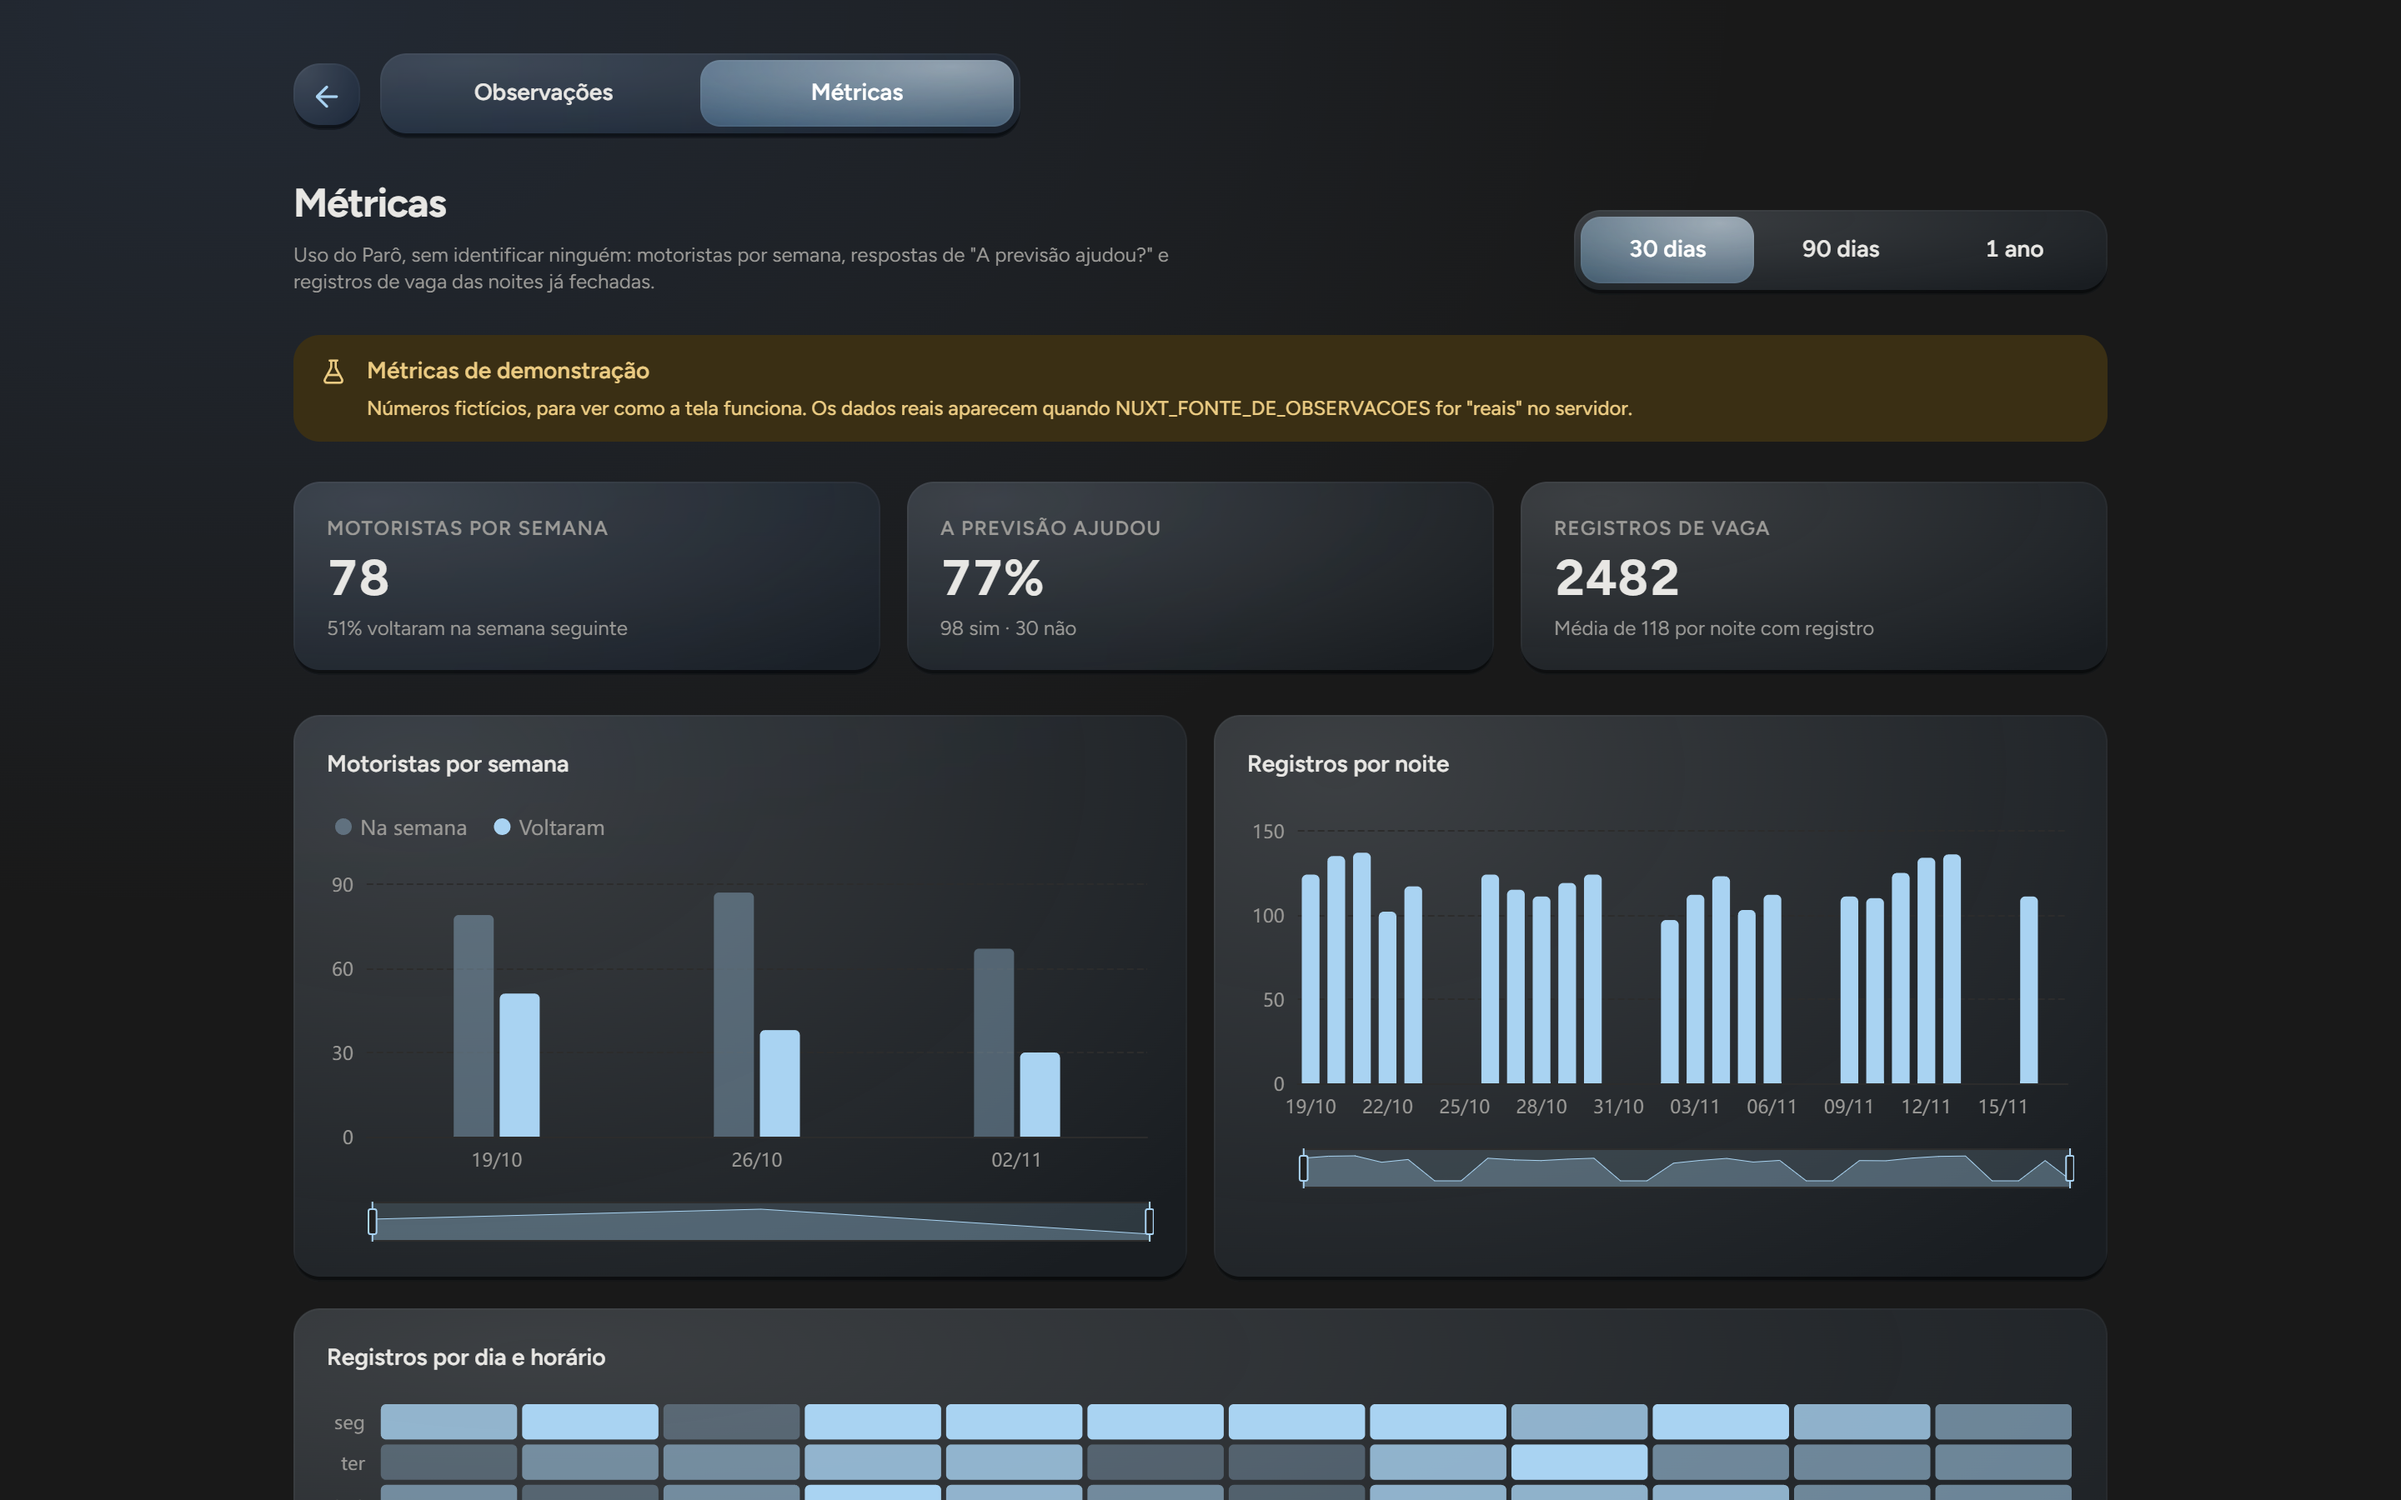
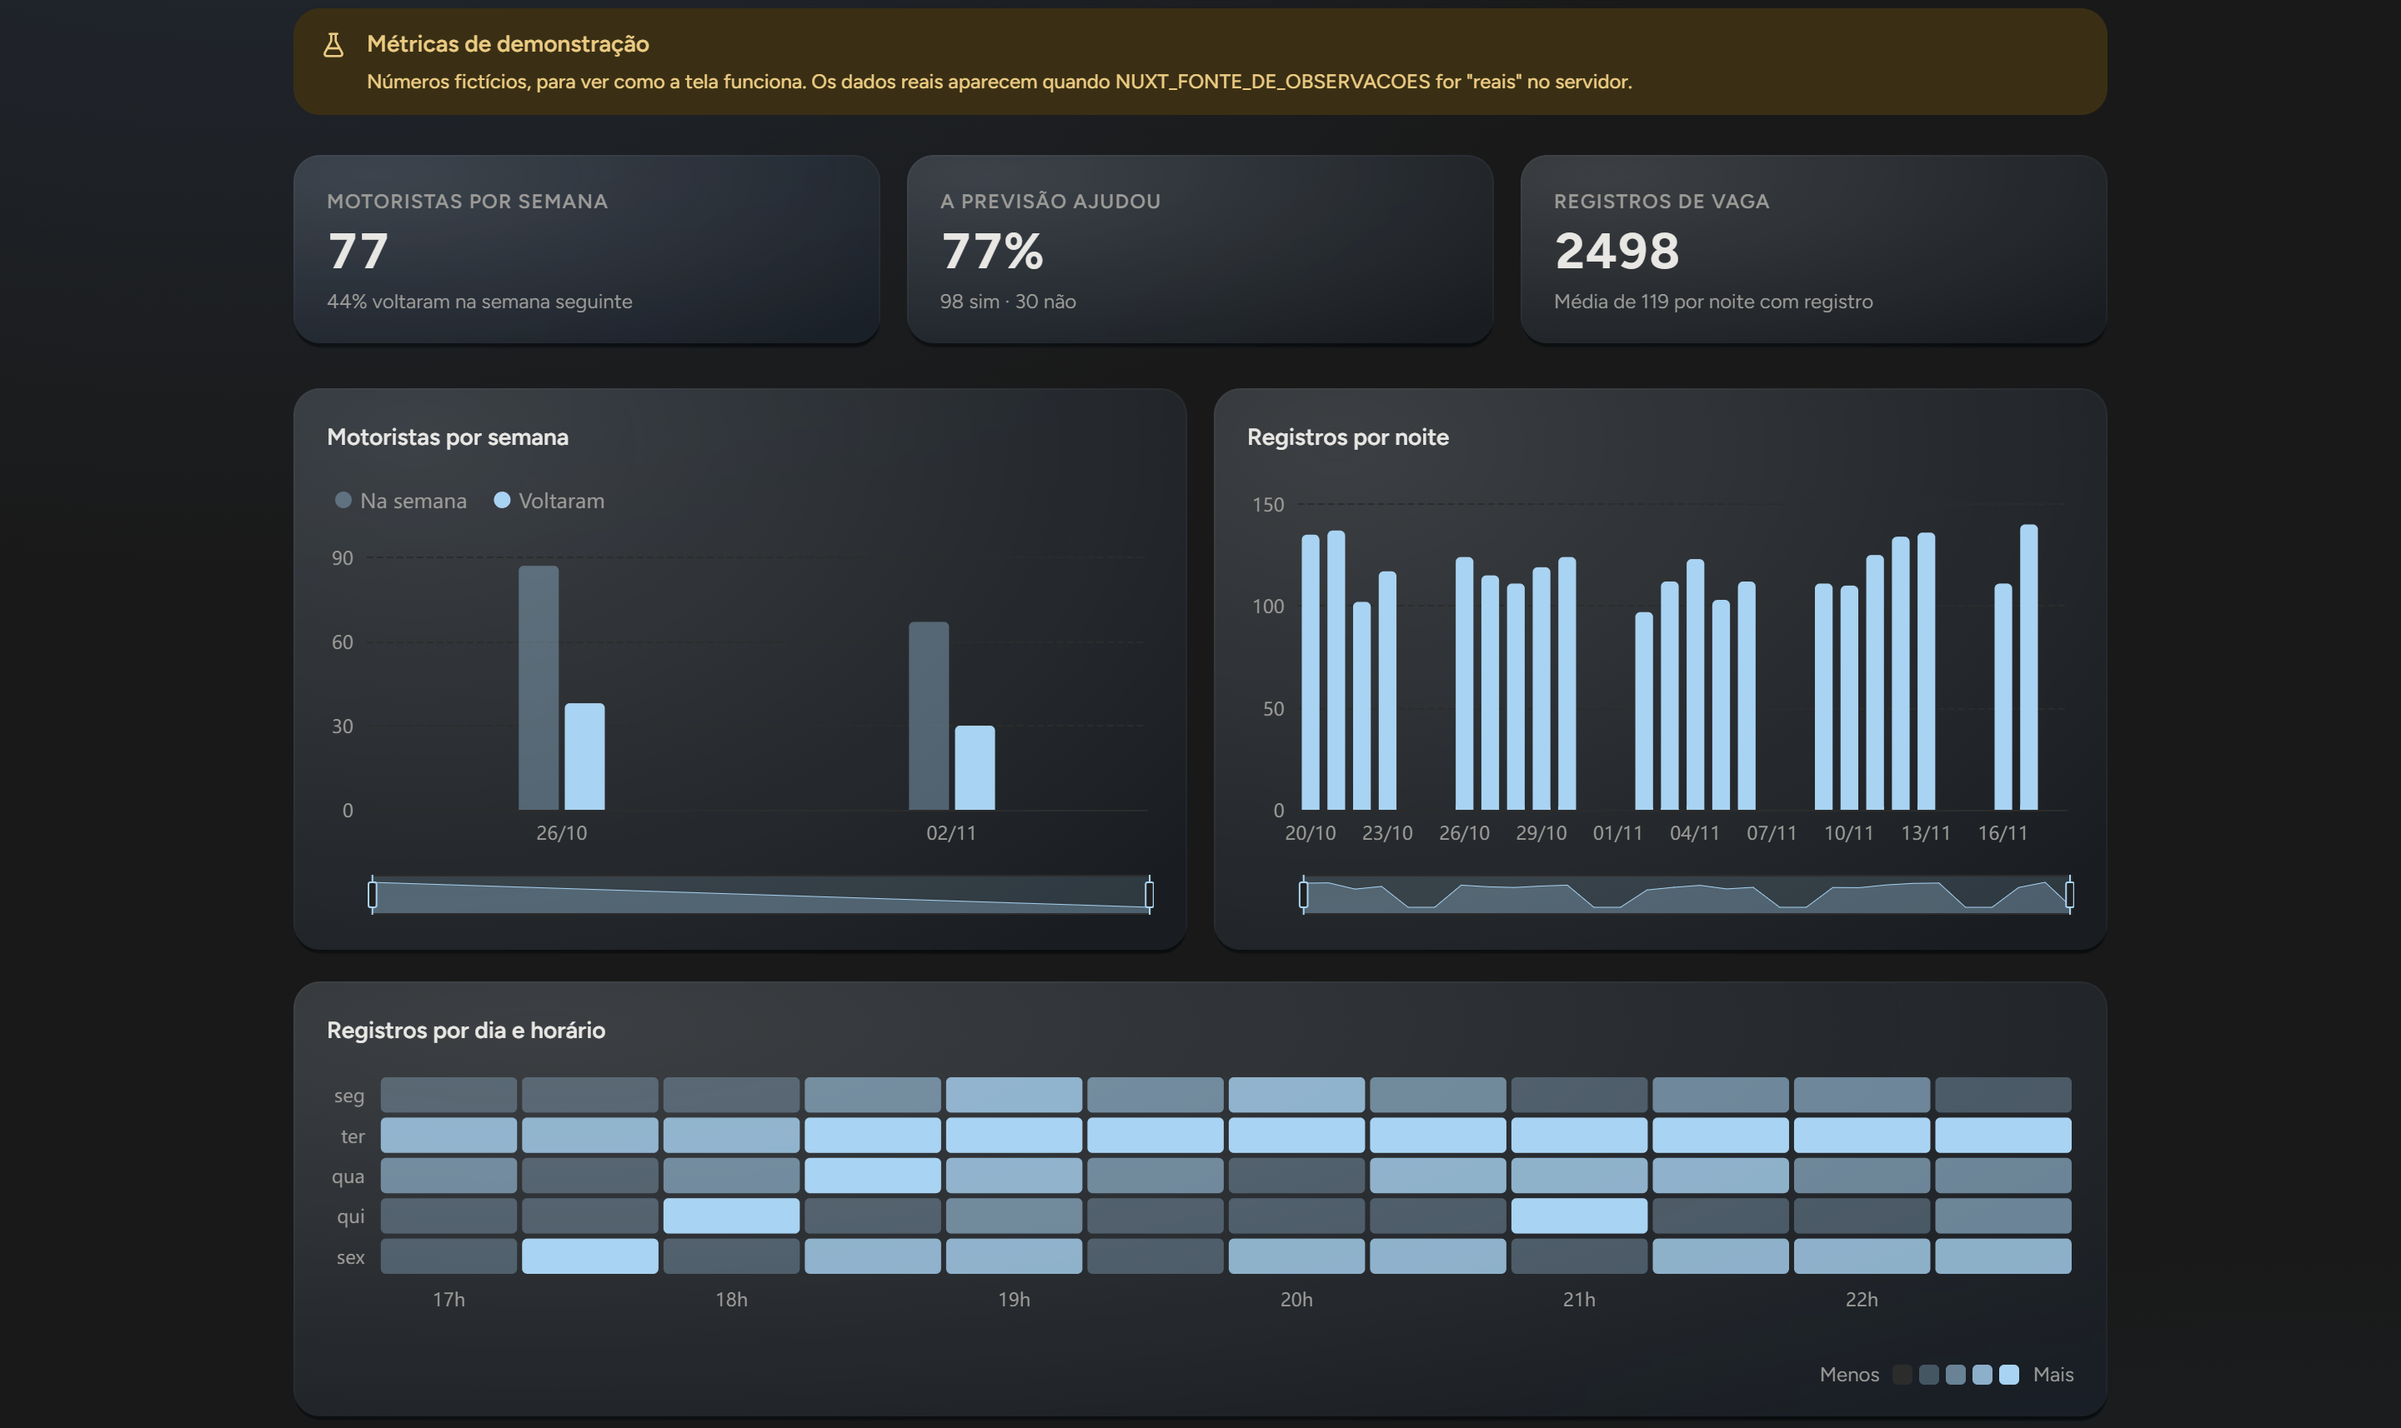
docs(Readme): update the team metrics screenshot
- Replace desktop-metricas.png with the current metrics screen
- Describe the new charts in the image alt text

diff --git a/README.md b/README.md
@@ -20,7 +20,7 @@ O app é um PWA instalável, sem cadastro e sem login. No desktop, as telas fica
 
 A Área da equipe mostra as métricas de uso em gráficos ECharts.
 
-<img src="docs/imagens/desktop-metricas.png" alt="Métricas da equipe no desktop: números do período, motoristas por semana e registros por noite">
+<img src="docs/imagens/desktop-metricas.png" alt="Métricas da equipe no desktop: aviso de demonstração, números do período, motoristas por semana, registros por noite e registros por dia e horário">
 
 ## Como a chance é calculada
 
